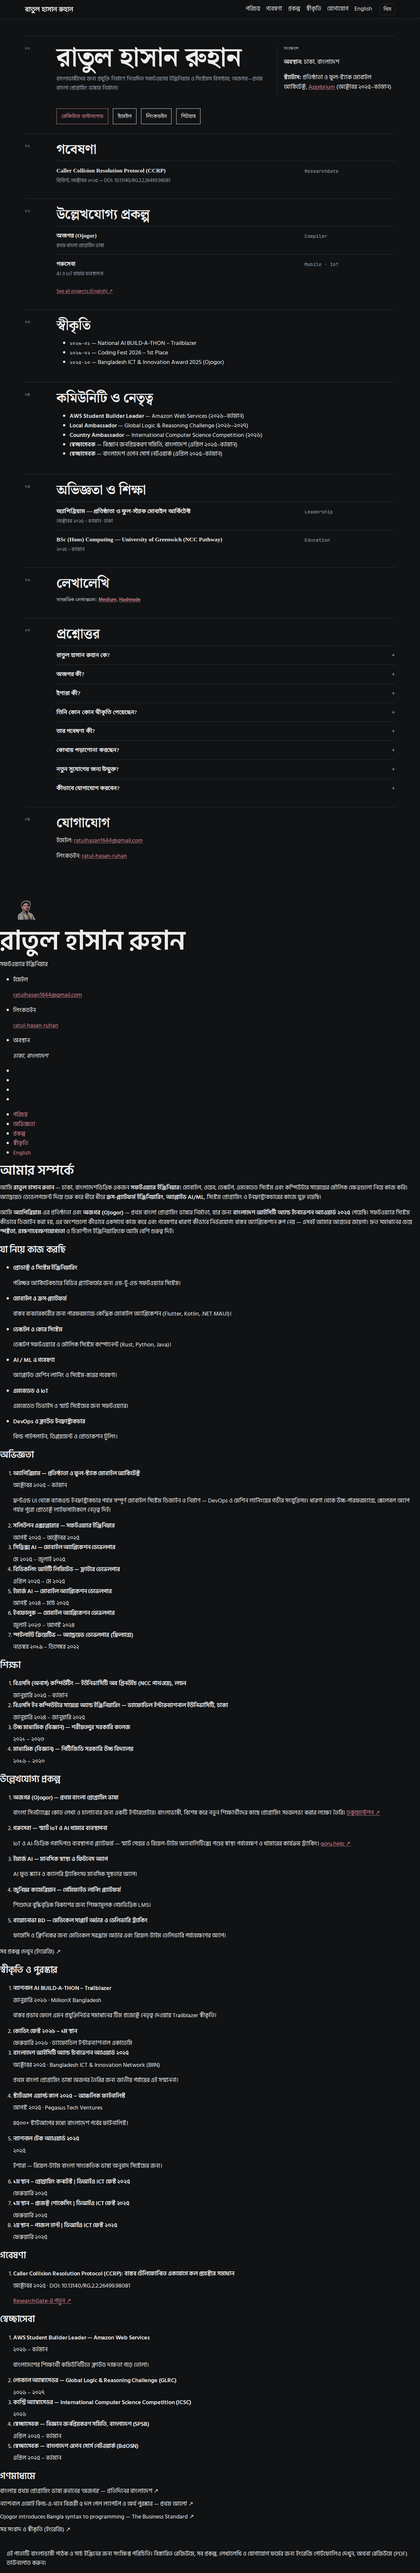
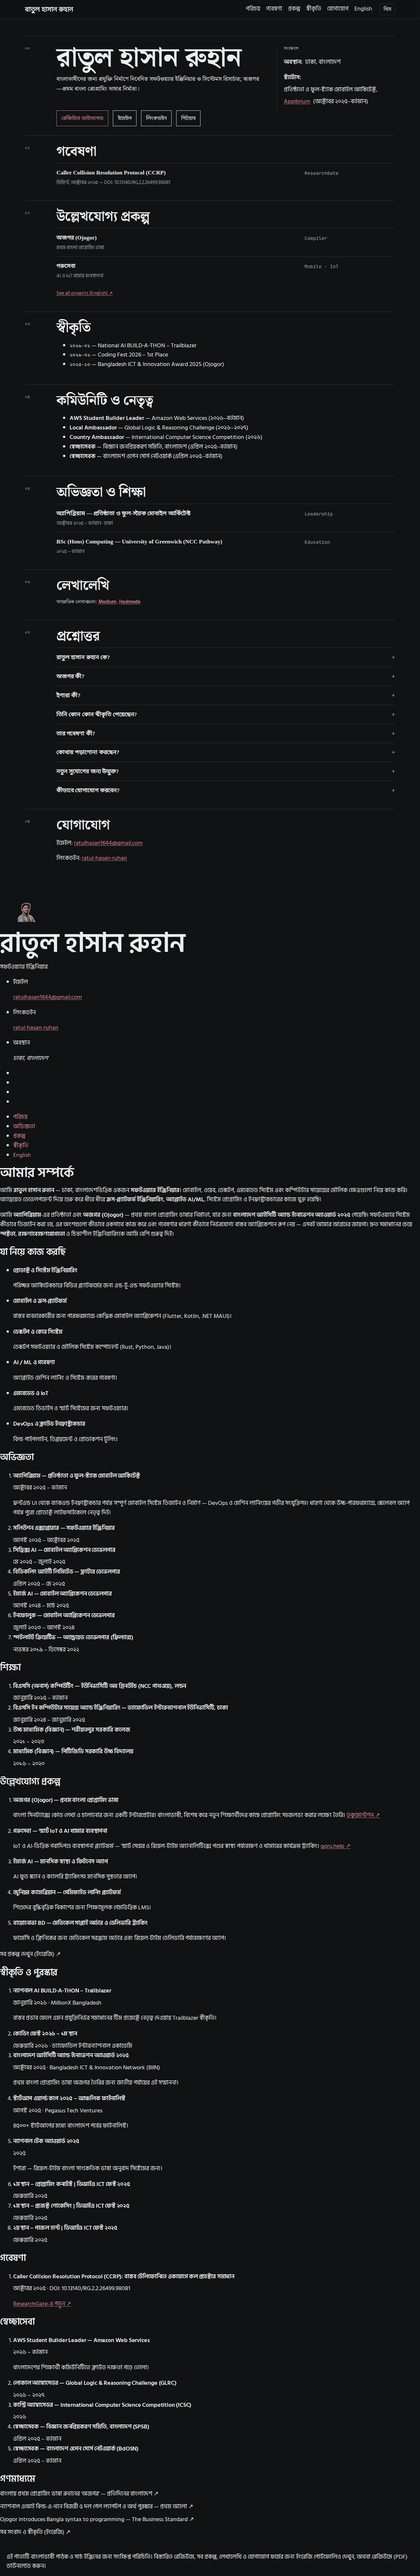
Ensure legacy SPA nodes are hidden at body level; add responsive Menu; improve bn role text; clean nav CSS/JS

diff --git a/bn/index.html b/bn/index.html
@@ -200,13 +200,16 @@
   <div class="topnav-wrap">
     <nav class="topnav" aria-label="শীর্ষ নেভিগেশন">
       <div class="brand bengali">রাতুল&nbsp;হাসান&nbsp;রুহান</div>
-      <a href="#about">পরিচয়</a>
-      <a href="#research">গবেষণা</a>
-      <a href="#projects">প্রকল্প</a>
-      <a href="#awards">স্বীকৃতি</a>
-      <a href="#contact">যোগাযোগ</a>
-      <a class="lang-link" href="/" hreflang="en" lang="en">English</a>
-      <button id="theme-toggle" class="theme-toggle" aria-label="ডার্ক মোড টগল">থিম</button>
+      <button id="menu-toggle" class="menu-toggle" aria-controls="topnav-menu" aria-expanded="false">মেনু</button>
+      <div id="topnav-menu" class="topnav-menu" role="menu">
+        <a href="#about" role="menuitem">পরিচয়</a>
+        <a href="#research" role="menuitem">গবেষণা</a>
+        <a href="#projects" role="menuitem">প্রকল্প</a>
+        <a href="#awards" role="menuitem">স্বীকৃতি</a>
+        <a href="#contact" role="menuitem">যোগাযোগ</a>
+        <a class="lang-link" href="/" hreflang="en" lang="en" role="menuitem">English</a>
+        <button id="theme-toggle" class="theme-toggle" aria-label="ডার্ক মোড টগল">থিম</button>
+      </div>
     </nav>
   </div>
 
@@ -216,7 +219,7 @@
       <div class="hero">
         <div>
           <h1 id="hero-title" class="bengali">রাতুল হাসান রুহান</h1>
-          <p class="role">বাংলাভাষীদের জন্য প্রযুক্তি নির্মাণে নিবেদিত সফটওয়্যার ইঞ্জিনিয়ার ও সিস্টেমস রিসার্চার; অজগর—প্রথম বাংলা প্রোগ্রামিং ভাষার নির্মাতা।</p>
+          <p class="role bengali">বাংলাভাষীদের জন্য প্রযুক্তি নির্মাণে নিবেদিত সফটওয়্যার ইঞ্জিনিয়ার ও সিস্টেমস রিসার্চার; অজগর—প্রথম বাংলা প্রোগ্রামিং ভাষার নির্মাতা।</p>
           <div class="spacer-2"></div>
           <div class="cta-row">
             <a class="btn btn-primary" href="/assets/Ratul-Hasan-Ruhan-Resume.pdf" download>রেজিউমে ডাউনলোড</a>

diff --git a/index.html b/index.html
@@ -496,15 +496,18 @@
   <div class="topnav-wrap">
     <nav class="topnav" aria-label="Top navigation">
       <div class="brand">Ratul&nbsp;Hasan&nbsp;Ruhan</div>
-      <a href="#about">About</a>
-      <a href="#research">Research</a>
-      <a href="#projects">Projects</a>
-      <a href="#awards">Awards</a>
-      <a href="#experience">Experience</a>
-      <a href="#writings">Writings</a>
-      <a href="#contact">Contact</a>
-      <a class="lang-link" href="/bn/" hreflang="bn">বাংলা</a>
-      <button id="theme-toggle" class="theme-toggle" aria-label="Toggle dark mode">Theme</button>
+      <button id="menu-toggle" class="menu-toggle" aria-controls="topnav-menu" aria-expanded="false">Menu</button>
+      <div id="topnav-menu" class="topnav-menu" role="menu">
+        <a href="#about" role="menuitem">About</a>
+        <a href="#research" role="menuitem">Research</a>
+        <a href="#projects" role="menuitem">Projects</a>
+        <a href="#awards" role="menuitem">Awards</a>
+        <a href="#experience" role="menuitem">Experience</a>
+        <a href="#writings" role="menuitem">Writings</a>
+        <a href="#contact" role="menuitem">Contact</a>
+        <a class="lang-link" href="/bn/" hreflang="bn" role="menuitem">বাংলা</a>
+        <button id="theme-toggle" class="theme-toggle" aria-label="Toggle dark mode">Theme</button>
+      </div>
     </nav>
   </div>
 
@@ -708,29 +711,20 @@
     </section>
   </main>
 
-        <figure class="avatar-box">
-          <img src="./assets/images/ratulhasan-avatar.png" alt="Ratul Hasan Ruhan" width="80">
-        </figure>
+  <!--
+    - custom js link
+  -->
+  <script src="/assets/js/meridian.js"></script>
 
-        <div class="info-content">
-          <h1 class="name" title="Ratul Hasan Ruhan">Ratul Hasan Ruhan</h1>
+  <!--
+    - WebMCP tools for in-browser AI agents (no-op where unsupported)
+  -->
 
-          <p class="title">Software Engineer</p>
-        </div>
+</body>
 
-        <button class="info_more-btn" data-sidebar-btn>
-          <span>Show Contacts</span>
+</html>
 
-          <ion-icon name="chevron-down"></ion-icon>
-        </button>
-
-      </div>
-
-      <div class="sidebar-info_more">
-
-        <div class="separator"></div>
-
-        <ul class="contacts-list">
+<!-- end -->
 
           <li class="contact-item">
 

diff --git a/assets/css/meridian.css b/assets/css/meridian.css
@@ -40,6 +40,18 @@ body {
   line-height: 1.65;
   text-rendering: optimizeLegibility;
 }
+/* Hard-hide any legacy SPA blocks that might exist as body-level siblings */
+body > .sidebar,
+body > .main-content,
+body > .navbar,
+body > article.about,
+body > article.resume,
+body > article.projects,
+body > article.recognition,
+body > article.writings,
+body > article.contact,
+body > .contacts-list,
+body > .sidebar-info_more { display: none !important; }
 img { max-width: 100%; height: auto; }
 a { color: var(--accent); text-underline-offset: 2px; text-decoration-thickness: 1px; }
 a:hover { text-decoration: underline; }
@@ -138,6 +150,18 @@ h4 { font-size: 18px; }
   padding: 2px 0;
 }
 .topnav a:hover { border-bottom-color: var(--accent); color: var(--accent); }
+.menu-toggle {
+  display: none;
+  border: 1px solid var(--hairline);
+  padding: 6px 10px;
+  border-radius: var(--radius);
+  background: transparent;
+  color: var(--ink);
+  cursor: pointer;
+  font-family: var(--sans);
+  font-size: 15.5px;
+}
+.topnav-menu { display: flex; align-items: center; gap: 18px; }
 .theme-toggle {
   margin-left: 6px;
   border: 1px solid var(--hairline);
@@ -151,6 +175,12 @@ h4 { font-size: 18px; }
 @media (max-width: 420px) {
   .topnav { gap: 10px; }
   .topnav .brand { font-size: 18px; }
+}
+@media (max-width: 768px) {
+  .menu-toggle { display: inline-flex; margin-left: auto; }
+  .topnav { flex-wrap: wrap; }
+  .topnav-menu { display: none; width: 100%; padding: 8px 0; gap: 12px; border-top: var(--rule); }
+  .topnav-menu.open { display: flex; flex-wrap: wrap; }
 }
 
 /* Hero */
@@ -174,6 +204,9 @@ h4 { font-size: 18px; }
 }
 .kicker { color: var(--slate); text-transform: uppercase; font-size: 12px; letter-spacing: 0.12em; }
 .cta-row { display: flex; flex-wrap: wrap; gap: 10px 14px; margin-top: 16px; }
+.at-a-glance p { display: flex; align-items: center; gap: 8px; flex-wrap: wrap; }
+.at-a-glance #copy-email { padding: 6px 10px; font-size: 14px; white-space: nowrap; }
+.hero .role.bengali { font-size: 1.14rem; color: var(--ink); font-weight: 500; }
 .btn {
   display: inline-flex;
   align-items: center;

diff --git a/assets/js/meridian.js b/assets/js/meridian.js
@@ -185,5 +185,13 @@ document.addEventListener('DOMContentLoaded', () => {
     setupArchiveToggle();
   });
   setupCopyEmail();
+  const menuBtn = document.getElementById('menu-toggle');
+  const menu = document.getElementById('topnav-menu');
+  if (menuBtn && menu) {
+    menuBtn.addEventListener('click', () => {
+      const open = menu.classList.toggle('open');
+      menuBtn.setAttribute('aria-expanded', open ? 'true' : 'false');
+    });
+  }
 });
 

diff --git a/scripts/verify_and_screenshot.py b/scripts/verify_and_screenshot.py
@@ -25,11 +25,26 @@ async def capture(page, url: str, locale: str, width: int, dark: bool):
     # Compute scrollWidth
     scroll_w = await page.evaluate("document.scrollingElement ? document.scrollingElement.scrollWidth : document.documentElement.scrollWidth")
     inner_w = await page.evaluate("window.innerWidth")
+    scroll_h = await page.evaluate("document.scrollingElement ? document.scrollingElement.scrollHeight : document.documentElement.scrollHeight")
+    has_legacy = await page.evaluate("""(() => {
+      const t = (document.body && document.body.innerText) || '';
+      return /Show Contacts|Quick sync with Ratul/.test(t);
+    })()""")
     # Screenshot
     theme = "dark" if dark else "light"
     fn = OUT_DIR / f"{'desktop' if width>=1024 else 'mobile'}-{locale}-{theme}-{width}.png"
     await page.screenshot(path=str(fn), full_page=True)
-    return {"url": url, "locale": locale, "width": width, "theme": theme, "scrollWidth": scroll_w, "innerWidth": inner_w, "consoleErrors": errors}
+    return {
+        "url": url,
+        "locale": locale,
+        "width": width,
+        "theme": theme,
+        "scrollWidth": scroll_w,
+        "innerWidth": inner_w,
+        "scrollHeight": scroll_h,
+        "legacyStrings": has_legacy,
+        "consoleErrors": errors,
+    }
 
 
 async def main():
@@ -55,7 +70,11 @@ async def main():
     # Summarize results
     for r in results:
         ok = "OK" if r["scrollWidth"] <= r["innerWidth"] else "OVERFLOW"
-        report_lines.append(f"- {r['url']} [{r['locale']}] {r['theme']} {r['width']} => scrollWidth {r['scrollWidth']} / innerWidth {r['innerWidth']} — {ok}")
+        report_lines.append(
+            f"- {r['url']} [{r['locale']}] {r['theme']} {r['width']} => "
+            f"scrollWidth {r['scrollWidth']} / innerWidth {r['innerWidth']} — {ok}; "
+            f"scrollHeight {r['scrollHeight']}; legacyStrings={r['legacyStrings']}"
+        )
     if not_founds:
         report_lines.append("")
         report_lines.append("## 404s")

diff --git a/docs/preview/report.md b/docs/preview/report.md
@@ -1,18 +1,18 @@
-# Verification Report (2026-10-18T02:18:58.441456Z)
+# Verification Report (2026-10-18T02:42:44.038976Z)
 
-- / [en] light 390 => scrollWidth 390 / innerWidth 390 — OK
-- / [en] dark 390 => scrollWidth 390 / innerWidth 390 — OK
-- / [en] light 768 => scrollWidth 768 / innerWidth 768 — OK
-- / [en] dark 768 => scrollWidth 768 / innerWidth 768 — OK
-- / [en] light 1100 => scrollWidth 1100 / innerWidth 1100 — OK
-- / [en] dark 1100 => scrollWidth 1100 / innerWidth 1100 — OK
-- / [en] light 1280 => scrollWidth 1280 / innerWidth 1280 — OK
-- / [en] dark 1280 => scrollWidth 1280 / innerWidth 1280 — OK
-- /bn/ [bn] light 390 => scrollWidth 390 / innerWidth 390 — OK
-- /bn/ [bn] dark 390 => scrollWidth 390 / innerWidth 390 — OK
-- /bn/ [bn] light 768 => scrollWidth 768 / innerWidth 768 — OK
-- /bn/ [bn] dark 768 => scrollWidth 768 / innerWidth 768 — OK
-- /bn/ [bn] light 1100 => scrollWidth 1100 / innerWidth 1100 — OK
-- /bn/ [bn] dark 1100 => scrollWidth 1100 / innerWidth 1100 — OK
-- /bn/ [bn] light 1280 => scrollWidth 1280 / innerWidth 1280 — OK
-- /bn/ [bn] dark 1280 => scrollWidth 1280 / innerWidth 1280 — OK
+- / [en] light 390 => scrollWidth 390 / innerWidth 390 — OK; scrollHeight 20489; legacyStrings=True
+- / [en] dark 390 => scrollWidth 390 / innerWidth 390 — OK; scrollHeight 20489; legacyStrings=True
+- / [en] light 768 => scrollWidth 768 / innerWidth 768 — OK; scrollHeight 16031; legacyStrings=True
+- / [en] dark 768 => scrollWidth 768 / innerWidth 768 — OK; scrollHeight 16031; legacyStrings=True
+- / [en] light 1100 => scrollWidth 1100 / innerWidth 1100 — OK; scrollHeight 13808; legacyStrings=True
+- / [en] dark 1100 => scrollWidth 1100 / innerWidth 1100 — OK; scrollHeight 13808; legacyStrings=True
+- / [en] light 1280 => scrollWidth 1280 / innerWidth 1280 — OK; scrollHeight 13653; legacyStrings=True
+- / [en] dark 1280 => scrollWidth 1280 / innerWidth 1280 — OK; scrollHeight 13653; legacyStrings=True
+- /bn/ [bn] light 390 => scrollWidth 390 / innerWidth 390 — OK; scrollHeight 10527; legacyStrings=False
+- /bn/ [bn] dark 390 => scrollWidth 390 / innerWidth 390 — OK; scrollHeight 10527; legacyStrings=False
+- /bn/ [bn] light 768 => scrollWidth 768 / innerWidth 768 — OK; scrollHeight 8683; legacyStrings=False
+- /bn/ [bn] dark 768 => scrollWidth 768 / innerWidth 768 — OK; scrollHeight 8683; legacyStrings=False
+- /bn/ [bn] light 1100 => scrollWidth 1100 / innerWidth 1100 — OK; scrollHeight 7779; legacyStrings=False
+- /bn/ [bn] dark 1100 => scrollWidth 1100 / innerWidth 1100 — OK; scrollHeight 7779; legacyStrings=False
+- /bn/ [bn] light 1280 => scrollWidth 1280 / innerWidth 1280 — OK; scrollHeight 7840; legacyStrings=False
+- /bn/ [bn] dark 1280 => scrollWidth 1280 / innerWidth 1280 — OK; scrollHeight 7840; legacyStrings=False
